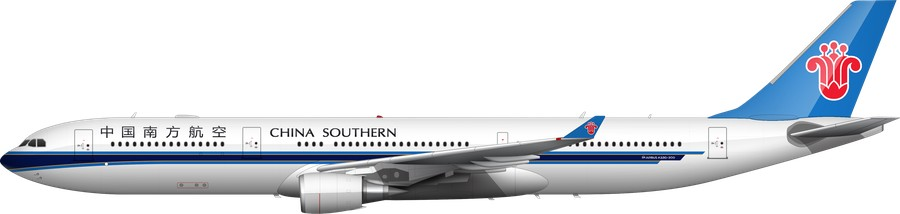
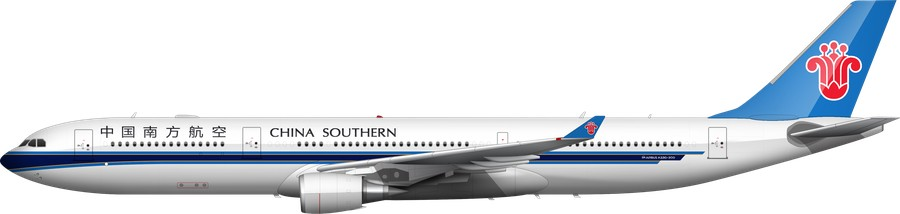
update overview

diff --git a/index.html b/index.html
@@ -128,7 +128,7 @@ button{font-family:inherit}.bar button{border:1px solid #bbb;background:#fff;bor
 <div class="card" data-key="Standard/China Southern/China Southern - 777-300ER" data-name="China Southern 777-300ER" data-png="Liveries Done/Standard/China Southern/China Southern - 777-300ER/China Southern_777-300ER.png" data-base="{&quot;status&quot;: &quot;完美&quot;, &quot;reason&quot;: &quot;&quot;, &quot;author&quot;: &quot;我們&quot;, &quot;note&quot;: &quot;&quot;}"><img loading="lazy" src="_work/overview_thumbs900/a23f33643f70.jpg?v=1795696269"><div class="t">777-300ER</div><span class="b"></span><span class="m r"></span><div class="m a"></div></div>
 <div class="card" data-key="Standard/China Southern/China Southern - A320" data-name="China Southern A320" data-png="Liveries Done/Standard/China Southern/China Southern - A320/China Southern_A320.png" data-base="{&quot;status&quot;: &quot;完美&quot;, &quot;reason&quot;: &quot;&quot;, &quot;author&quot;: &quot;我們&quot;, &quot;note&quot;: &quot;&quot;}"><img loading="lazy" src="_work/overview_thumbs900/3574a7b71380.jpg?v=1795696774"><div class="t">A320</div><span class="b"></span><span class="m r"></span><div class="m a"></div></div>
 <div class="card" data-key="Standard/China Southern/China Southern - A320neo" data-name="China Southern A320neo" data-png="Liveries Done/Standard/China Southern/China Southern - A320neo/China Southern_A320neo.png" data-base="{&quot;status&quot;: &quot;完美&quot;, &quot;reason&quot;: &quot;&quot;, &quot;author&quot;: &quot;我們&quot;, &quot;note&quot;: &quot;&quot;}"><img loading="lazy" src="_work/overview_thumbs900/86fcfa2df04f.jpg?v=1795698620"><div class="t">A320neo</div><span class="b"></span><span class="m r"></span><div class="m a"></div></div>
-<div class="card" data-key="Standard/China Southern/China Southern - A330-300" data-name="China Southern A330-300" data-png="Liveries Done/Standard/China Southern/China Southern - A330-300/China Southern_A330-300.png" data-base="{&quot;status&quot;: &quot;要處理&quot;, &quot;reason&quot;: &quot;gloss&quot;, &quot;author&quot;: &quot;我們&quot;, &quot;note&quot;: &quot;&quot;}"><img loading="lazy" src="_work/overview_thumbs900/829b8f8bd31e.jpg?v=1794734163"><div class="t">A330-300</div><span class="b"></span><span class="m r"></span><div class="m a"></div></div>
+<div class="card" data-key="Standard/China Southern/China Southern - A330-300" data-name="China Southern A330-300" data-png="Liveries Done/Standard/China Southern/China Southern - A330-300/China Southern_A330-300.png" data-base="{&quot;status&quot;: &quot;完美&quot;, &quot;reason&quot;: &quot;&quot;, &quot;author&quot;: &quot;我們&quot;, &quot;note&quot;: &quot;&quot;}"><img loading="lazy" src="_work/overview_thumbs900/829b8f8bd31e.jpg?v=1795699043"><div class="t">A330-300</div><span class="b"></span><span class="m r"></span><div class="m a"></div></div>
 <div class="card" data-key="Standard/China Southern/China Southern - A350-900" data-name="China Southern A350-900" data-png="Liveries Done/Standard/China Southern/China Southern - A350-900/China Southern_A350-900.png" data-base="{&quot;status&quot;: &quot;要處理&quot;, &quot;reason&quot;: &quot;gloss&quot;, &quot;author&quot;: &quot;我們&quot;, &quot;note&quot;: &quot;&quot;}"><img loading="lazy" src="_work/overview_thumbs900/1938b0688db0.jpg?v=1794734163"><div class="t">A350-900</div><span class="b"></span><span class="m r"></span><div class="m a"></div></div>
 </div></div>
 <div class="air"><h3>Delta<small>11 型<span class="ok"></span></small></h3><div class="grid">
